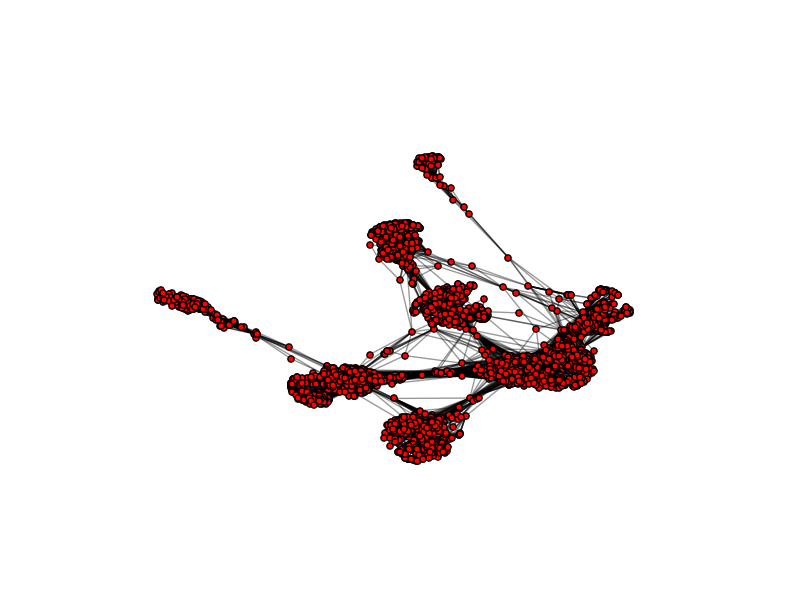
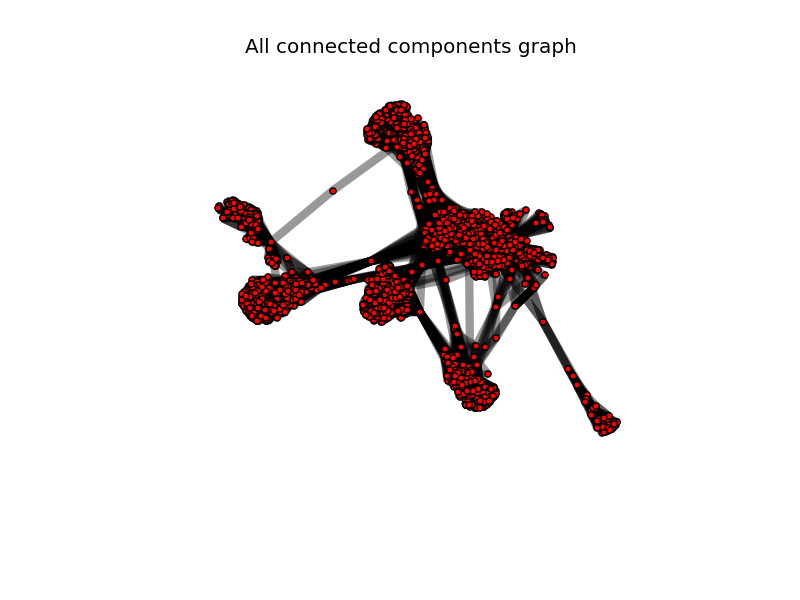
Added largest component and all connected component graphs

diff --git a/hw1/main.py b/hw1/main.py
@@ -32,6 +32,7 @@ class DataNetwork:
             my_file.write('Degree pearson correlation coefficient {}\n'.format(
                 nx.degree_pearson_correlation_coefficient(self.G)))
 
+
             # Do this for the largest component (could give us insight)
             # my_file.write('Center of graph {}\n'.format(nx.center(self.G)))
             # my_file.write('Diameter of graph {}\n'.format(nx.diameter(self.G)))
@@ -85,40 +86,53 @@ class DataNetwork:
         plt.close()
 
         # connected components subgraphs
-        Gcc = sorted(nx.connected_component_subgraphs(self.G.to_undirected()), key=len, reverse=True)[0]
-        pos = nx.spring_layout(Gcc)
+        Gcc = sorted(nx.connected_component_subgraphs(self.G.to_undirected()), key=len, reverse=True)
+        pos = nx.spring_layout(self.G.to_undirected())
+        plt.title('All connected components graph')
         plt.axis('off')
-        nx.draw_networkx_nodes(Gcc, pos, node_size=20)
-        nx.draw_networkx_edges(Gcc, pos, alpha=0.4)
+        nx.draw_networkx_nodes(Gcc[0], pos, edge_color='r', with_labels=False, node_size=20)
+        nx.draw_networkx_edges(Gcc[0], pos, alpha=0.4, width=6.0)
+        for g in Gcc[1:]:
+            if len(g) > 1:
+                nx.draw_networkx_edges(g, pos, edge_color='r', with_labels=False, alpha=0.3, width=5.0)
+        plt.savefig('{}_connected_subgraphs.png'.format(self.data_type))
+        plt.close()
 
-        plt.savefig(self.data_type + "_connected_subgraphs.png")
+        #largest connected component diagram
+        pos = nx.spring_layout(Gcc[0])
+        plt.axis('off')
+        nx.draw_networkx_nodes(Gcc[0], pos, node_size=20)
+        nx.draw_networkx_edges(Gcc[0], pos, alpha=0.4)
+
+        plt.savefig(self.data_type + "_largest_connected_component.png")
         plt.close()
 
 def main():
     wiki_vote = DataNetwork('dataset/Wiki-Vote.txt', 'wiki', 'directed')
-    wiki_vote.centrality()
-    wiki_vote.clustering_coefficient()
-    wiki_vote.other_graph_info()
-
+    # wiki_vote.centrality()
+    # wiki_vote.clustering_coefficient()
+    # wiki_vote.other_graph_info()
+    #
     facebook = DataNetwork('dataset/facebook_combined.txt', 'facebook', 'undirected')
-    facebook.centrality()
-    facebook.clustering_coefficient()
-    facebook.other_graph_info()
-
+    # facebook.centrality()
+    # facebook.clustering_coefficient()
+    # facebook.other_graph_info()
+    #
     gnutella = DataNetwork('dataset/p2p-Gnutella08.txt', 'gnutella', 'directed')
-    gnutella.centrality()
-    gnutella.clustering_coefficient()
-    gnutella.other_graph_info()
-
-    grqc = DataNetwork('dataset/CA-GrQc.txt', 'gr-qc', 'directed')
-    grqc.centrality()
-    grqc.clustering_coefficient()
-    grqc.other_graph_info()
-
+    # gnutella.centrality()
+    # gnutella.clustering_coefficient()
+    # gnutella.other_graph_info()
+    #
+    grqc = DataNetwork('dataset/CA-GrQc.txt', 'gr-qc', 'undirected')
+    # grqc.centrality()
+    # grqc.clustering_coefficient()
+    # grqc.other_graph_info()
+    #
     wiki_vote.network_graphs()
     facebook.network_graphs()
     grqc.network_graphs()
     gnutella.network_graphs()
+
 
 if __name__ == '__main__':
     main()
